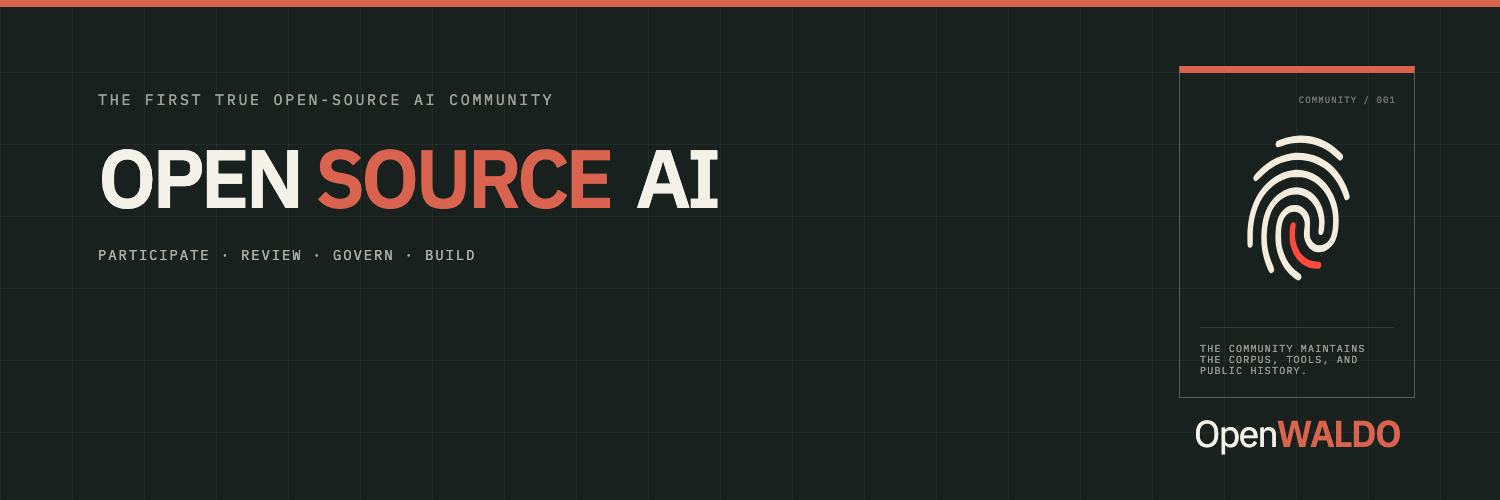
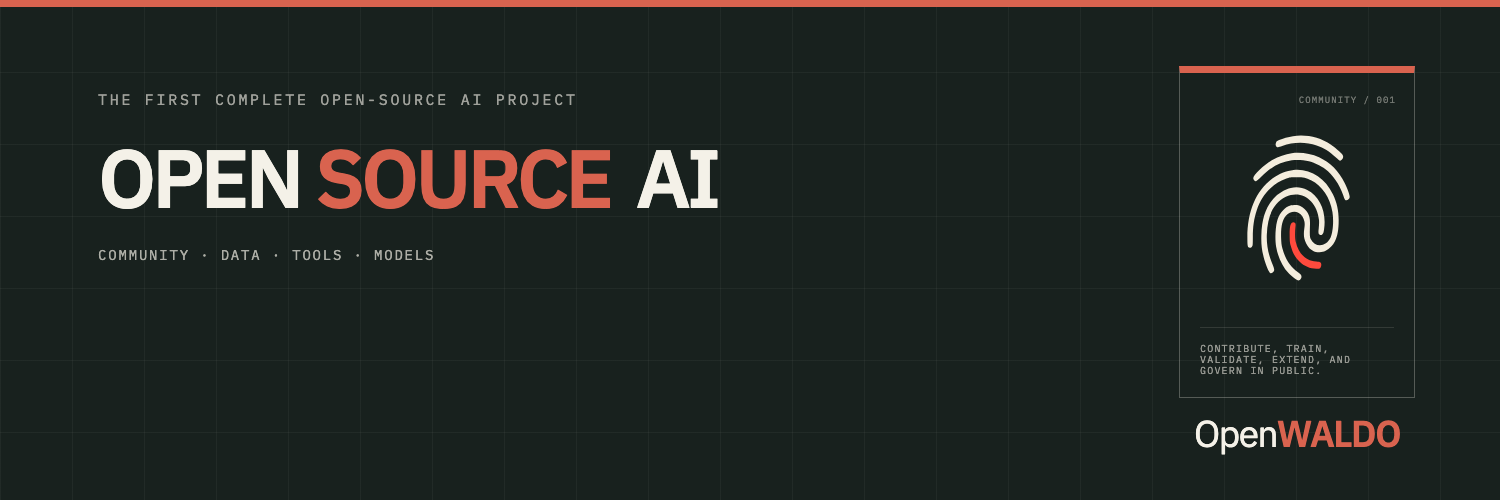
Present OpenWALDO as the complete AI project

Changed region(s): [[0.0613, 0.48, 0.3067, 0.54], [0.1227, 0.18, 0.3987, 0.21], [0.7973, 0.69, 0.92, 0.75]]

diff --git a/index.html b/index.html
@@ -8,18 +8,18 @@
     />
     <meta name="viewport" content="width=device-width, initial-scale=1" />
     <meta name="referrer" content="strict-origin-when-cross-origin" />
-    <title>OpenWALDO — The First True Open-Source AI Community</title>
+    <title>OpenWALDO — The First Complete Open-Source AI Project</title>
     <meta
       name="description"
-      content="The first true open-source AI community, where everyone can participate in maintaining the training source, tools, and shared foundation."
+      content="The first complete open-source AI project: community, training data, tools, models, governance, and provenance working together in public."
     />
     <meta
       property="og:title"
-      content="OpenWALDO — The First True Open-Source AI Community"
+      content="OpenWALDO — The First Complete Open-Source AI Project"
     />
     <meta
       property="og:description"
-      content="The community does not just use OpenWALDO. It contributes, reviews, corrects, governs, and builds AI from the source."
+      content="Community, training data, tools, models, governance, and provenance: everything people expect from open source, brought together for AI."
     />
     <meta property="og:url" content="https://openwaldo.org/" />
     <meta property="og:image" content="https://openwaldo.org/assets/og-v2.png" />
@@ -70,12 +70,12 @@
                 <b>D</b>ata. Open <b>O</b>rigins.</span
               ><strong class="hero-name">Open<b>WALDO.</b></strong>
             </h1>
-            <p class="hero-subtitle">The first true open-source AI community.</p>
+            <p class="hero-subtitle">The complete open-source AI project and community.</p>
             <p class="hero-lede">
-              A truly open-source AI community is more than access to weights or public training
-              data. It means everyone can participate in what goes into a model: contributing and
-              auditing data, building and testing tools, validating model compositions, and
-              verifying reproducibility.
+              OpenWALDO brings everything people expect from open source to AI: a community anyone
+              can join; source code and training data anyone can contribute to and audit; open
+              tools; public governance and trust earned through transparency; and models anyone can
+              compose, train, validate, reproduce, extend, and improve.
             </p>
             <div class="actions hero-community-actions">
               <a
@@ -91,13 +91,13 @@
               >
             </div>
           </div>
-          <div class="hero-object" aria-label="The first true open-source AI community">
+          <div class="hero-object" aria-label="The first complete open-source AI project">
             <img class="provenance-mark" src="assets/mark.svg" alt="" />
             <strong
-              ><small>THE FIRST TRUE</small><em>OPEN-SOURCE</em
-              ><span class="hero-object-community">AI COMMUNITY.</span></strong
+              ><small>THE FIRST COMPLETE</small><em>OPEN-SOURCE</em
+              ><span class="hero-object-community">AI PROJECT.</span></strong
             >
-            <span>PARTICIPATE · REVIEW · GOVERN · BUILD</span>
+            <span>COMMUNITY · DATA · TOOLS · MODELS</span>
           </div>
         </div>
         <div class="hero-rule shell">
@@ -190,31 +190,33 @@
         <div class="shell">
           <div class="community-thesis-title">
             <p class="kicker">The proven model</p>
-            <h2>Open source is more than access. It is community participation.</h2>
+            <h2>Open source built the software infrastructure the world runs on.</h2>
           </div>
           <div class="community-thesis-head">
-            <h3>For the first time, AI’s source can work the same way.</h3>
+            <h3>Now we are bringing the same model and benefits to AI.</h3>
             <p>
-              OpenWALDO is the first true open-source AI community because its community maintains
-              the source foundation itself. People can contribute, inspect, debate, correct,
-              version, and improve the corpus and tools as a shared public project.
+              OpenWALDO applies the proven open-source development model across the complete AI
+              project. Its community can participate in data, tools, models, provenance, and
+              governance, bringing AI the same transparency, collaboration, shared ownership, and
+              compounding improvement that made open-source software foundational.
             </p>
           </div>
           <div class="community-thesis-grid">
             <article>
               <span>01</span>
-              <h3>A proven way to build at scale.</h3>
+              <h3>The foundation of modern computing.</h3>
               <p>
                 Linux, the web, cloud infrastructure, containers, supercomputing, Python, PyTorch,
-                and much of today’s AI tooling grew through open communities working together.
+                and much of today’s AI tooling grew through open communities working together at
+                extraordinary scale.
               </p>
             </article>
             <article>
               <span>02</span>
               <h3>Maintain the foundation in public.</h3>
               <p>
-                No single lab decides the foundation for everyone. Public participation makes the
-                corpus more transparent, accountable, useful, and resilient as it grows.
+                Public participation makes the foundation more transparent, accountable, useful,
+                resilient, and responsive to the people and organizations that depend on it.
               </p>
             </article>
             <article>

diff --git a/community.html b/community.html
@@ -8,17 +8,20 @@
     />
     <meta name="viewport" content="width=device-width, initial-scale=1" />
     <meta name="referrer" content="strict-origin-when-cross-origin" />
-    <title>The First True Open-Source AI Community — OpenWALDO</title>
+    <title>The Community Building the Complete Open-Source AI Project — OpenWALDO</title>
     <meta
       name="description"
-      content="Join the first true open-source AI community and participate directly in the training source, tools, governance, and models."
+      content="Join the community building the first complete open-source AI project and participate in its data, tools, models, and governance."
     />
     <meta property="og:site_name" content="OpenWALDO" />
     <meta property="og:type" content="website" />
-    <meta property="og:title" content="The First True Open-Source AI Community — OpenWALDO" />
+    <meta
+      property="og:title"
+      content="The Community Building the Complete Open-Source AI Project — OpenWALDO"
+    />
     <meta
       property="og:description"
-      content="Open source means everyone can participate. Learn, contribute, review, govern, and build AI together."
+      content="Learn, contribute data, improve tools, train and extend models, participate in governance, and build AI together."
     />
     <meta property="og:url" content="https://openwaldo.org/community.html" />
     <meta property="og:image" content="https://openwaldo.org/assets/og-v2.png" />
@@ -62,15 +65,15 @@
       <section class="page-intro community-intro">
         <div class="shell page-intro-grid">
           <div>
-            <p class="kicker light">The first true open-source AI community.</p>
-            <h1>Participate in the source.<br /><em>Build what comes next.</em></h1>
+            <p class="kicker light">The community behind the complete open-source AI project.</p>
+            <h1>Learn it. Build it.<br /><em>Grow it together.</em></h1>
           </div>
           <div class="page-intro-side">
             <span>06 / COMMUNITY</span>
             <p>
-              OpenWALDO makes community involvement foundational, not peripheral. Everyone can
-              learn, contribute training data, review evidence, correct the public record, improve
-              the tools, participate in governance, and build from the results.
+              OpenWALDO makes community involvement foundational. Everyone can learn, contribute
+              and audit training data, improve the tools, compose and train models, validate and
+              extend the results, participate in governance, and help the entire project advance.
             </p>
             <a class="button primary" href="#ways">Find your place <span>↓</span></a>
           </div>
@@ -303,15 +306,15 @@
                 >LinkedIn <span>↗</span></a
               ><a
                 class="button dark-button"
-                href="https://x.com/intent/post?url=https%3A%2F%2Fopenwaldo.org%2F&amp;text=OpenWALDO%20is%20the%20first%20true%20open-source%20AI%20community%3A%20everyone%20can%20participate%20in%20the%20source%20by%20contributing%2C%20reviewing%2C%20correcting%2C%20governing%2C%20and%20building%20together."
+                href="https://x.com/intent/post?url=https%3A%2F%2Fopenwaldo.org%2F&amp;text=OpenWALDO%20is%20the%20first%20complete%20open-source%20AI%20project%3A%20community%2C%20training%20data%2C%20tools%2C%20models%2C%20governance%2C%20and%20provenance%20working%20together%20in%20public."
                 >X/Twitter <span>↗</span></a
               ><a
                 class="button dark-button"
-                href="https://bsky.app/intent/compose?text=OpenWALDO%20is%20the%20first%20true%20open-source%20AI%20community%3A%20everyone%20can%20participate%20in%20the%20source%20by%20contributing%2C%20reviewing%2C%20correcting%2C%20governing%2C%20and%20building%20together.%20https%3A%2F%2Fopenwaldo.org%2F"
+                href="https://bsky.app/intent/compose?text=OpenWALDO%20is%20the%20first%20complete%20open-source%20AI%20project%3A%20community%2C%20training%20data%2C%20tools%2C%20models%2C%20governance%2C%20and%20provenance%20working%20together%20in%20public.%20https%3A%2F%2Fopenwaldo.org%2F"
                 >Bluesky <span>↗</span></a
               ><a
                 class="button dark-button"
-                href="https://www.reddit.com/submit?url=https%3A%2F%2Fopenwaldo.org%2F&amp;title=Join%20the%20first%20true%20open-source%20AI%20community"
+                href="https://www.reddit.com/submit?url=https%3A%2F%2Fopenwaldo.org%2F&amp;title=Join%20the%20first%20complete%20open-source%20AI%20project"
                 >Reddit <span>↗</span></a
               ><button class="button dark-button" type="button" data-share-community hidden>
                 Share… <span>↗</span></button

diff --git a/faq.html b/faq.html
@@ -83,9 +83,9 @@
               <h2>Understand<br />the project.</h2>
             </div>
             <p>
-              The short version: OpenWALDO is the first true open-source AI community because
-              everyone can participate in maintaining the training source, tools, and shared
-              foundation, then carry that evidence into the models they build.
+              The short version: OpenWALDO is the first complete open-source AI project. Its
+              community participates across the full stack: training data, tools, model building,
+              provenance, governance, and continued improvement.
             </p>
           </div>
           <div class="faq-group">
@@ -101,10 +101,10 @@
                 </summary>
                 <div class="faq-answer">
                   <p>
-                    OpenWALDO is the first true open-source AI community: a community-maintained
-                    training-data commons and the toolchain that makes it usable. People and
-                    organizations can propose sources, review evidence, correct records, improve the
-                    tools, participate in governance, and build models from the shared result.
+                    OpenWALDO is the first complete open-source AI project: a community-maintained
+                    training-data commons, an integrated toolchain, public governance, verifiable
+                    provenance, and a workflow for composing, training, validating, exporting, and
+                    extending models.
                   </p>
                   <p>
                     The WALDO command-line tool ingests, verifies, selects, exports, trains, and
@@ -123,6 +123,13 @@
                   ><b aria-hidden="true"></b>
                 </summary>
                 <div class="faq-answer">
+                  <p>
+                    Open source built the software infrastructure the modern world depends on:
+                    operating systems, the web, cloud platforms, containers, programming languages,
+                    scientific computing, and much of today’s AI tooling. It works because people
+                    can inspect, use, improve, and govern a shared foundation together. OpenWALDO
+                    brings that proven development model to the complete AI project.
+                  </p>
                   <p>
                     <strong>Transparency.</strong> Open source replaces unsupported assurances with
                     evidence people can inspect: source material, license assertions, object
@@ -146,7 +153,7 @@
                 <summary>
                   <span>03</span
                   ><strong
-                    >Why is OpenWALDO the first true open-source AI community?</strong
+                    >What makes OpenWALDO a complete open-source AI project?</strong
                   ><b aria-hidden="true"></b>
                 </summary>
                 <div class="faq-answer">
@@ -157,11 +164,11 @@
                     license assertions, correct records, version the corpus, and improve the tools.
                   </p>
                   <p>
-                    The defining difference is community participation in the source itself.
-                    Training data remains a living open-source project with ongoing public
-                    contribution, review, correction, versioning, and governance. That turns users
-                    into contributors and lets every improvement benefit everyone building from the
-                    shared foundation.
+                    The defining difference is that the pieces work together and the community can
+                    participate across them. Training data remains a living project; tools and
+                    workflows stay open; model lineage remains attached; governance happens in
+                    public; and people can build, validate, reproduce, and extend the results. Every
+                    improvement can benefit everyone using the shared foundation.
                   </p>
                 </div>
               </details>

diff --git a/about.html b/about.html
@@ -11,14 +11,14 @@
     <title>About — OpenWALDO</title>
     <meta
       name="description"
-      content="Why OpenWALDO is the first true open-source AI community and why community participation in AI’s source matters."
+      content="Why OpenWALDO brings the complete open-source model to AI: community, data, tools, models, governance, and provenance."
     />
     <meta property="og:site_name" content="OpenWALDO" />
     <meta property="og:type" content="website" />
     <meta property="og:title" content="About — OpenWALDO" />
     <meta
       property="og:description"
-      content="The community does not just use the project. It participates in maintaining AI’s source."
+      content="Everything people expect from open source, brought together for AI."
     />
     <meta property="og:url" content="https://openwaldo.org/about.html" />
     <meta property="og:image" content="https://openwaldo.org/assets/og-v2.png" />
@@ -62,14 +62,14 @@
         <div class="shell page-intro-grid">
           <div>
             <p class="kicker light">About the project</p>
-            <h1>Open weights are<br />not the whole source.</h1>
+            <h1>Everything open source<br /><em>should be.</em></h1>
           </div>
           <div class="page-intro-side">
             <span>05 / ABOUT</span>
             <p>
-              A model without its training history asks everyone downstream to trust what they
-              cannot inspect. OpenWALDO exists to make that history reviewable, verifiable, and
-              portable.
+              OpenWALDO brings community, training data, tools, model building, governance, and
+              provenance into one public project people can inspect, improve, extend, and build
+              upon.
             </p>
           </div>
         </div>
@@ -79,8 +79,9 @@
           <aside>
             <p class="kicker">The case</p>
             <p class="aside-note">
-              Open source replaced trust in software with the right to inspect, rebuild, and change
-              it. AI needs the same foundation.
+              Open source built the software infrastructure the world depends on by giving people
+              the right to inspect, contribute, rebuild, improve, and share it. OpenWALDO brings
+              that proven model to AI.
             </p>
           </aside>
           <div class="longform">
@@ -102,14 +103,13 @@
             </blockquote>
             <h3>A commons, not a product</h3>
             <p>
-              This is what makes OpenWALDO the first true open-source AI community: the community
-              does not merely gather around the project; it maintains the source foundation itself.
-              Anyone can participate through public contribution, review, correction, and
-              stewardship. No single company owns the shared corpus or receives exclusive access
-              to it. The corpus is governed through ordinary Git review; contributors host
-              content-addressed objects; consumers can verify or export the material themselves.
-              WALDO records attributable facts and the limits of what it verified—it does not turn
-              a hash into a legal or safety conclusion.
+              This is what makes OpenWALDO the first complete open-source AI project: the community
+              does not merely gather around a release; it participates across the project. Anyone
+              can contribute and audit data, improve and test tools, validate model compositions,
+              verify reproducibility, extend models, and take part in stewardship. No single
+              company owns the shared corpus or receives exclusive access to it. WALDO records
+              attributable facts and the limits of what it verified—it does not turn a hash into a
+              legal or safety conclusion.
             </p>
           </div>
         </div>

diff --git a/assets/og-source.html b/assets/og-source.html
@@ -138,13 +138,13 @@
     <main class="card">
       <p class="brand">Open<strong>WALDO</strong></p>
       <div class="copy">
-        <h1><small>THE FIRST TRUE</small><span>OPEN-SOURCE AI</span><br />COMMUNITY.</h1>
-        <p class="subline">PARTICIPATE · REVIEW · GOVERN · BUILD</p>
+        <h1><small>THE FIRST COMPLETE</small><span>OPEN-SOURCE AI</span><br />PROJECT.</h1>
+        <p class="subline">COMMUNITY · DATA · TOOLS · MODELS</p>
       </div>
       <div class="mark-panel">
         <span class="serial">PROVENANCE / 001</span>
         <img src="mark.svg" alt="" />
-        <p>THE COMMUNITY MAINTAINS<br />THE CORPUS · TOOLS · HISTORY<br />AND BUILDS FROM THE SOURCE</p>
+        <p>CONTRIBUTE · TRAIN · VALIDATE<br />EXTEND · REPRODUCE<br />GOVERNED IN PUBLIC</p>
       </div>
     </main>
   </body>

diff --git a/assets/x-header-source.html b/assets/x-header-source.html
@@ -128,14 +128,14 @@
   <body>
     <main class="banner">
       <div class="copy">
-        <p class="eyebrow">THE FIRST TRUE OPEN-SOURCE AI COMMUNITY</p>
+        <p class="eyebrow">THE FIRST COMPLETE OPEN-SOURCE AI PROJECT</p>
         <h1>OPEN <span>SOURCE</span> AI</h1>
-        <p class="community-line">PARTICIPATE · REVIEW · GOVERN · BUILD</p>
+        <p class="community-line">COMMUNITY · DATA · TOOLS · MODELS</p>
       </div>
       <div class="mark-panel">
         <span class="serial">COMMUNITY / 001</span>
         <img src="mark.svg" alt="" />
-        <p>THE COMMUNITY MAINTAINS THE CORPUS, TOOLS, AND PUBLIC HISTORY.</p>
+        <p>CONTRIBUTE, TRAIN, VALIDATE, EXTEND, AND GOVERN IN PUBLIC.</p>
       </div>
       <p class="brand">Open<strong>WALDO</strong></p>
     </main>

diff --git a/training.html b/training.html
@@ -68,8 +68,9 @@
           <div class="page-intro-side">
             <span>02 / TRAINING</span>
             <p>
-              WALDO resolves verified corpus data before execution, records the starting point and
-              observed run, and binds the resulting weights into inspectable release BOMs.
+              WALDO provides an integrated model lifecycle: compose a new model or begin with open
+              weights, resolve verified training data, train or continue training, inspect the run,
+              and export the result with its evidence attached.
             </p>
             <a class="button primary" href="https://github.com/openwaldo/waldo"
               >Explore the OpenWALDO toolchain <span>↗</span></a

diff --git a/assets/main.js b/assets/main.js
@@ -232,8 +232,8 @@ const fetchIndexStats = async () => {
     shareButton.hidden = false;
     shareButton.addEventListener('click', () => {
       navigator.share({
-        title: 'Join the first true open-source AI community',
-        text: 'OpenWALDO lets everyone participate in AI’s source: contribute, review, correct, govern, and build from one shared foundation.',
+        title: 'Join the first complete open-source AI project',
+        text: 'OpenWALDO brings community, training data, tools, models, governance, and provenance together in one public project.',
         url: 'https://openwaldo.org/',
       }).catch(() => {});
     });
